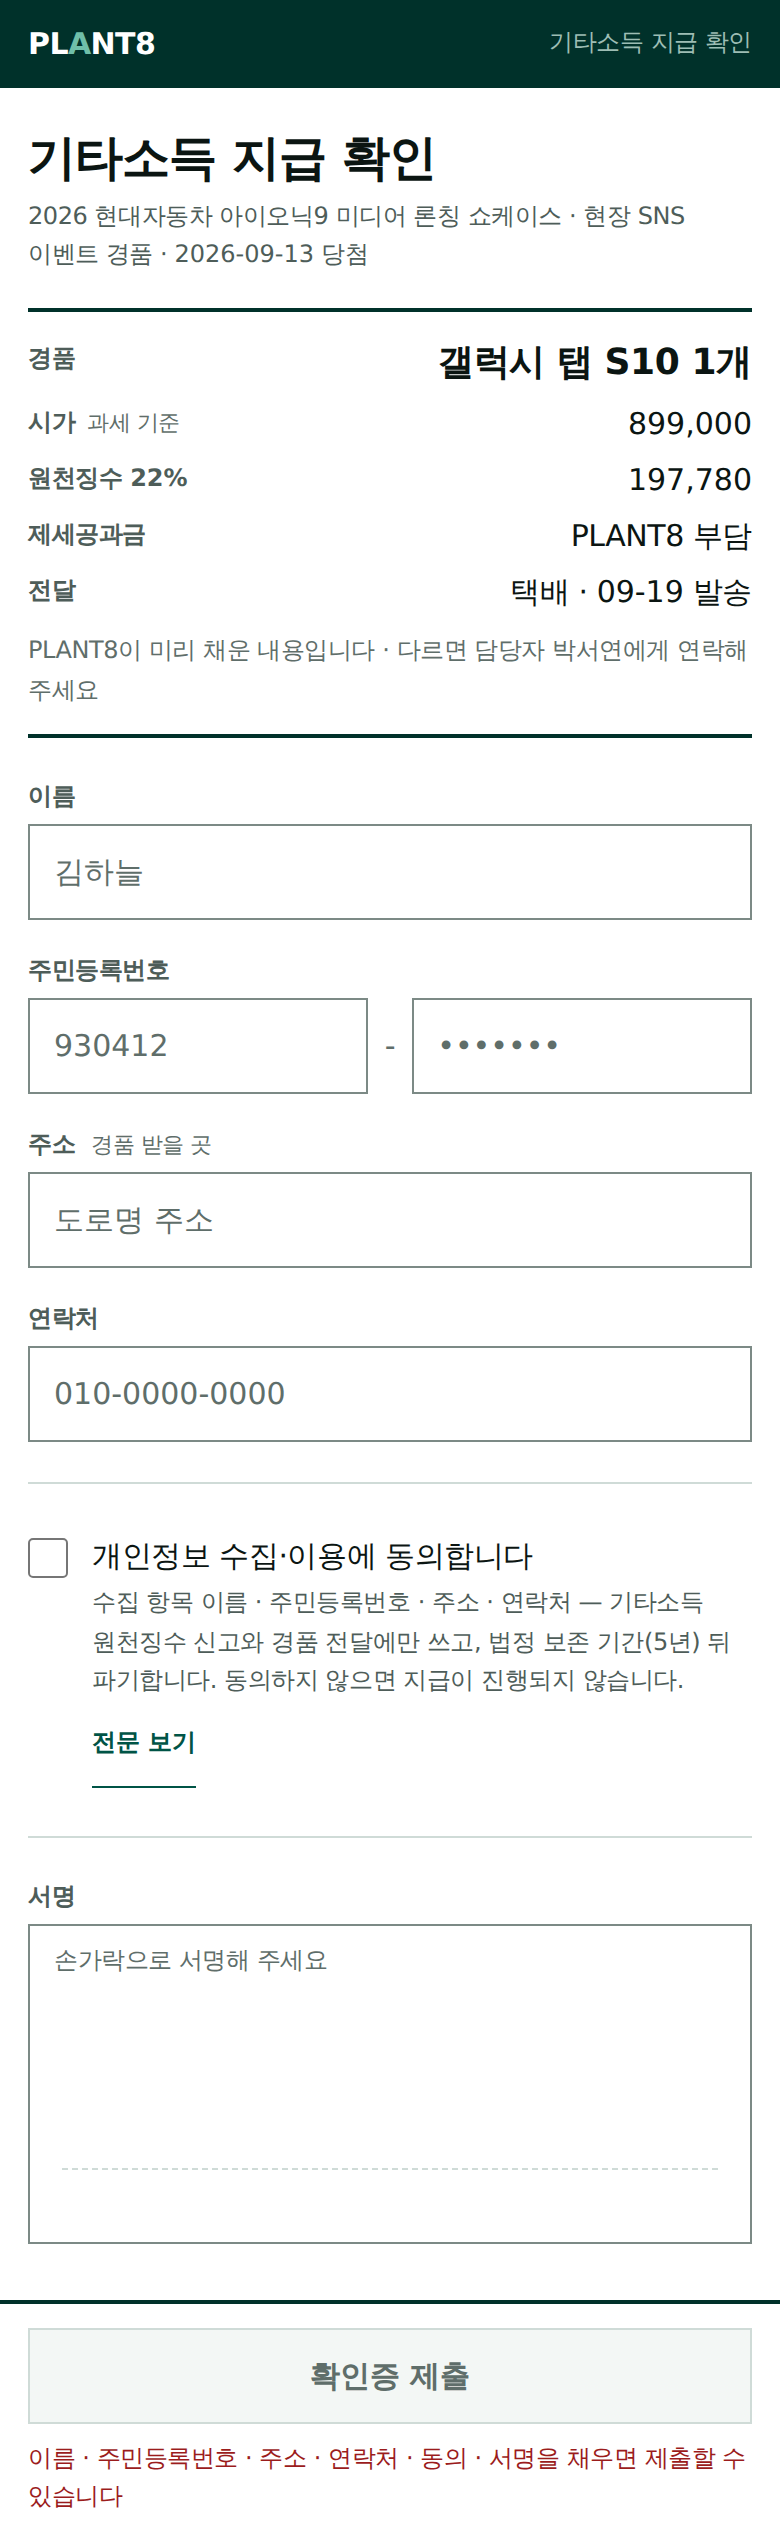
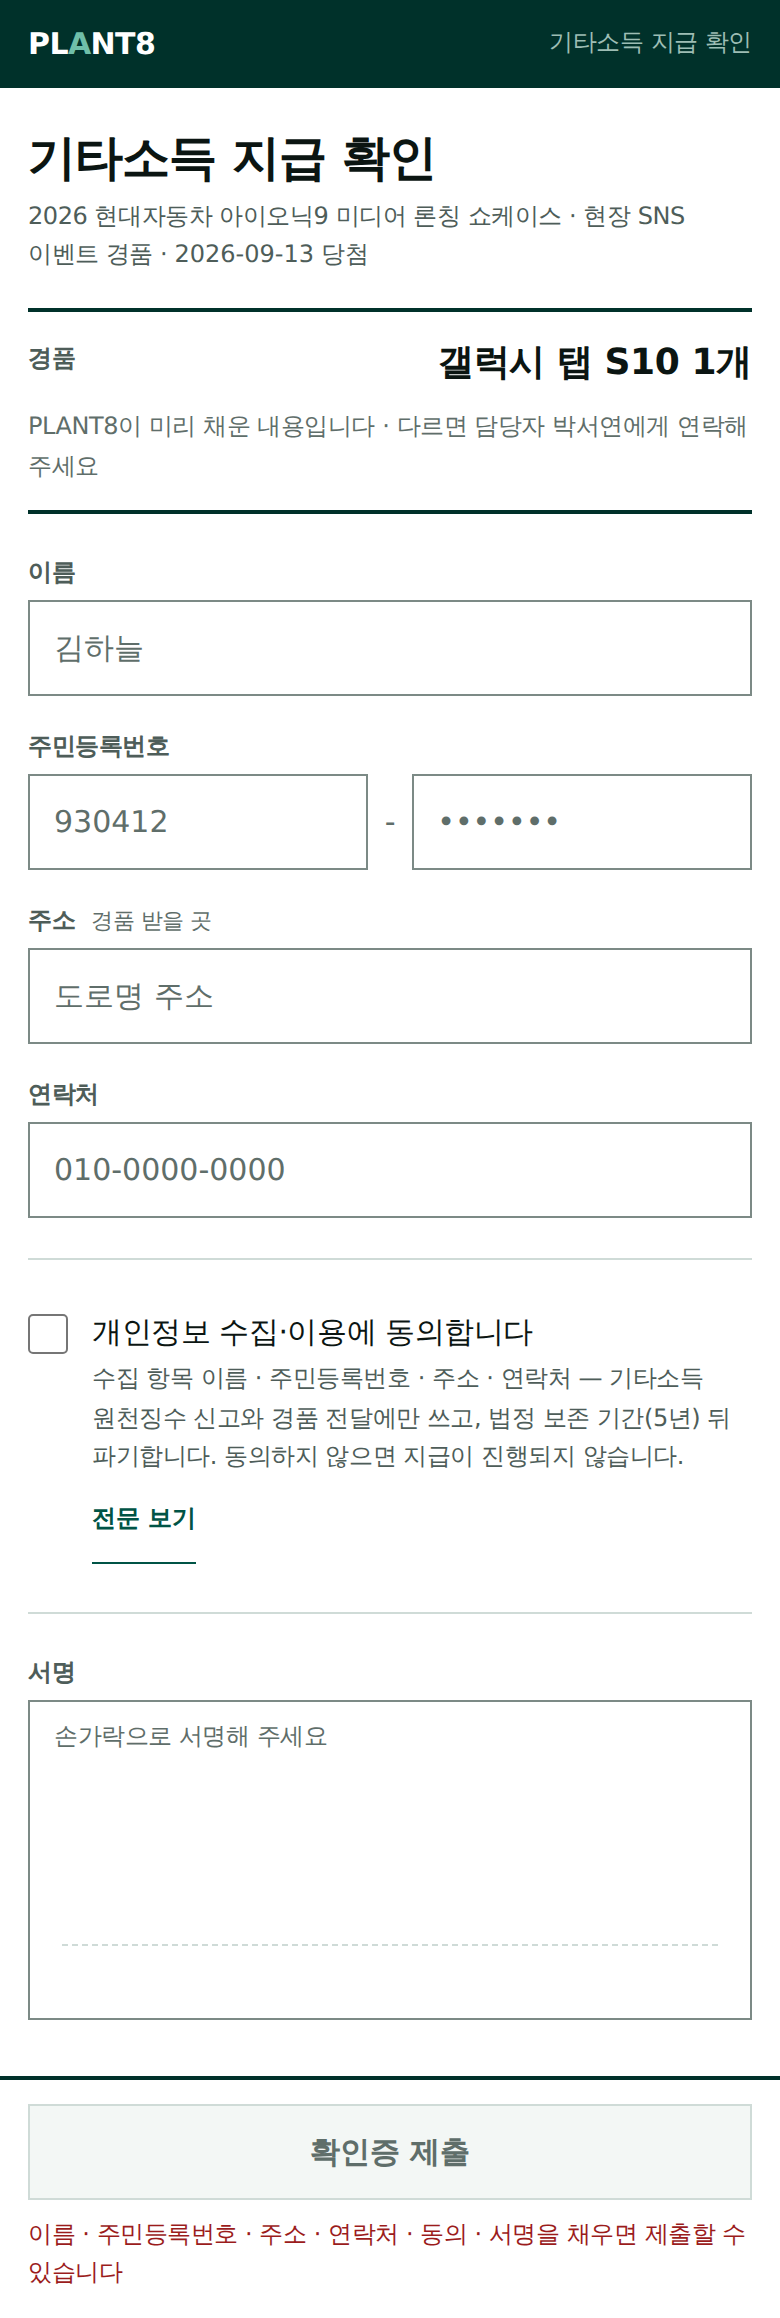
docs: 외부 수령자 화면 — 경품명만 남기고 시가·원천징수·제세공과금·전달 줄 삭제
사용자 결정(2026-09-18): 경품명만 넣고 세금 줄은 전부 뺀다.

Claude-Session: https://claude.ai/code/session_01MwoSZSUG1tWADvG16RK3Ss

diff --git a/docs/design/system/external-cert.html b/docs/design/system/external-cert.html
@@ -12,7 +12,7 @@
    #error        주민등록번호 형식 오류 · ~해 주세요체
    #done         제출됨 · 링크 닫힘 (PDF 링크 없음 = v1)
    #expired      이미 제출된 링크로 재진입
-   2026-09-18 사용자: 기타소득은 거의 경품(현물)이라 지급액·계좌를 빼고 경품 품목을 보인다(제세공과금 부담 주체·22%는 임시).
+   2026-09-18 사용자: 기타소득은 거의 경품(현물)이라 지급액·계좌를 빼고 경품명만 보인다(시가·원천징수·제세공과금 줄 없음).
    이 화면만 본문 --fs-md · 입력 48px · 한 열. 나머지 규칙(직각·틴트·색)은 그대로. 컴포넌트는 tokens.css 변수만 참조한다. 앱 코드가 아니다. */
 *{box-sizing:border-box;margin:0;padding:0}
 html{font-size:var(--fs-md)}
@@ -37,7 +37,6 @@ h1{font-size:var(--fs-xl);font-weight:var(--fw-bold);letter-spacing:var(--ls-hea
 .pay dt{font-size:var(--fs-sm);color:var(--muted);font-weight:var(--fw-medium);padding-top:2px}
 .pay dd{text-align:right}
 .pay dd.big{font-size:var(--fs-lg);font-weight:var(--fw-bold)}
-.pay .ro-in{font-size:var(--fs-xs);color:var(--faint);font-weight:var(--fw-regular);margin-left:2px}
 .pay .ro{font-size:var(--fs-sm);color:var(--faint);margin-top:var(--s-2)}
 
 .form{border-top:var(--line-w-strong) solid var(--line-strong);padding-top:var(--s-3)}
@@ -101,10 +100,6 @@ body[data-scene="error"] .sig svg{display:block}
   <section class="pay" aria-label="경품 내용">
     <dl>
       <dt>경품</dt><dd class="big">갤럭시 탭 S10 <span class="num">1</span>개</dd>
-      <dt>시가 <span class="ro-in">과세 기준</span></dt><dd class="num">899,000</dd>
-      <dt>원천징수 <span class="num">22%</span></dt><dd class="num">197,780</dd>
-      <dt>제세공과금</dt><dd>PLANT8 부담</dd>
-      <dt>전달</dt><dd>택배 · <span class="num">09-19</span> 발송</dd>
     </dl>
     <p class="ro">PLANT8이 미리 채운 내용입니다 · 다르면 담당자 박서연에게 연락해 주세요</p>
   </section>
@@ -139,7 +134,7 @@ body[data-scene="error"] .sig svg{display:block}
 
   <section class="state s-done" aria-live="polite">
     <p><b>제출되었습니다 · 이 링크는 닫혔습니다</b></p>
-    <p class="who">김하늘 · <span class="num">2026-09-20 18:42</span> 제출 · 갤럭시 탭 S10 <span class="num">1</span>개를 <span class="num">2026-09-19</span> 적은 주소로 택배 발송합니다</p>
+    <p class="who">김하늘 · <span class="num">2026-09-20 18:42</span> 제출 · 갤럭시 탭 S10 <span class="num">1</span>개를 적은 주소로 보내 드립니다</p>
     <p class="who">확인이 필요하면 담당자 박서연 · PLANT8 경영관리에 연락해 주세요</p>
   </section>
 
